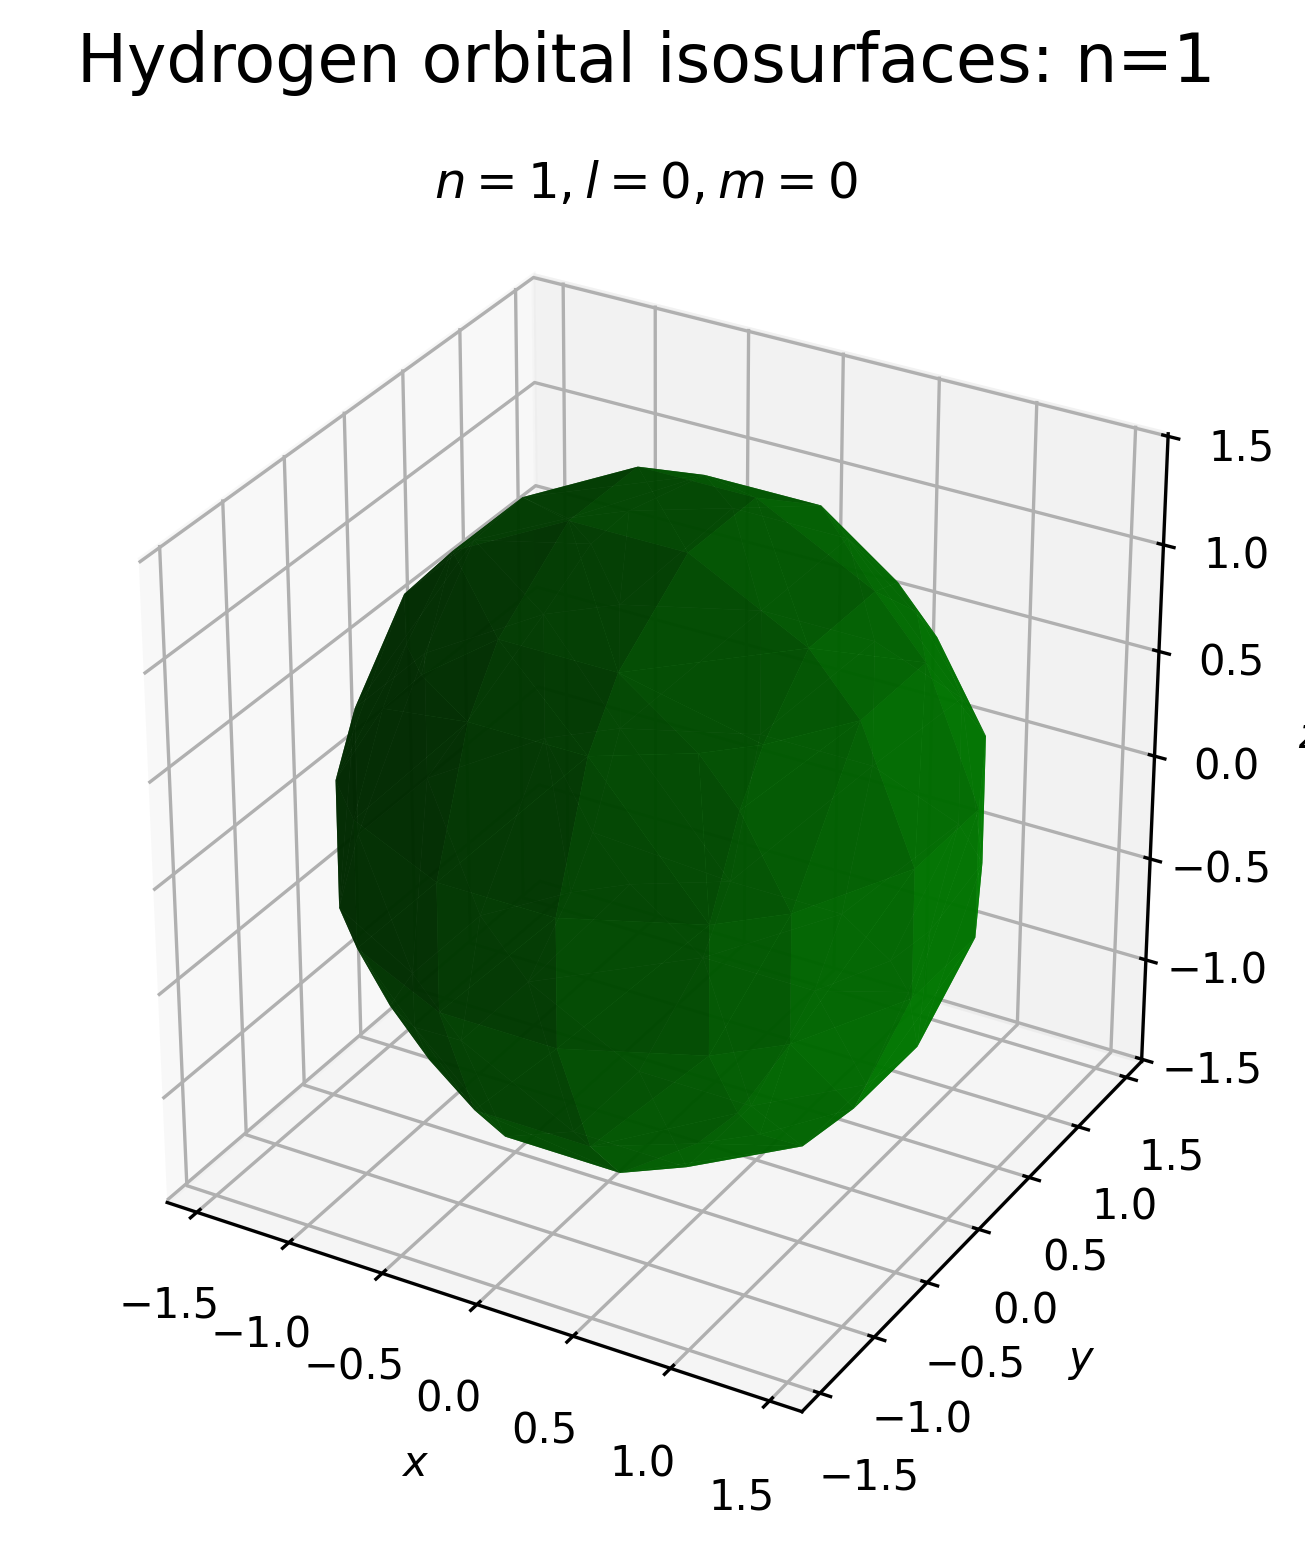
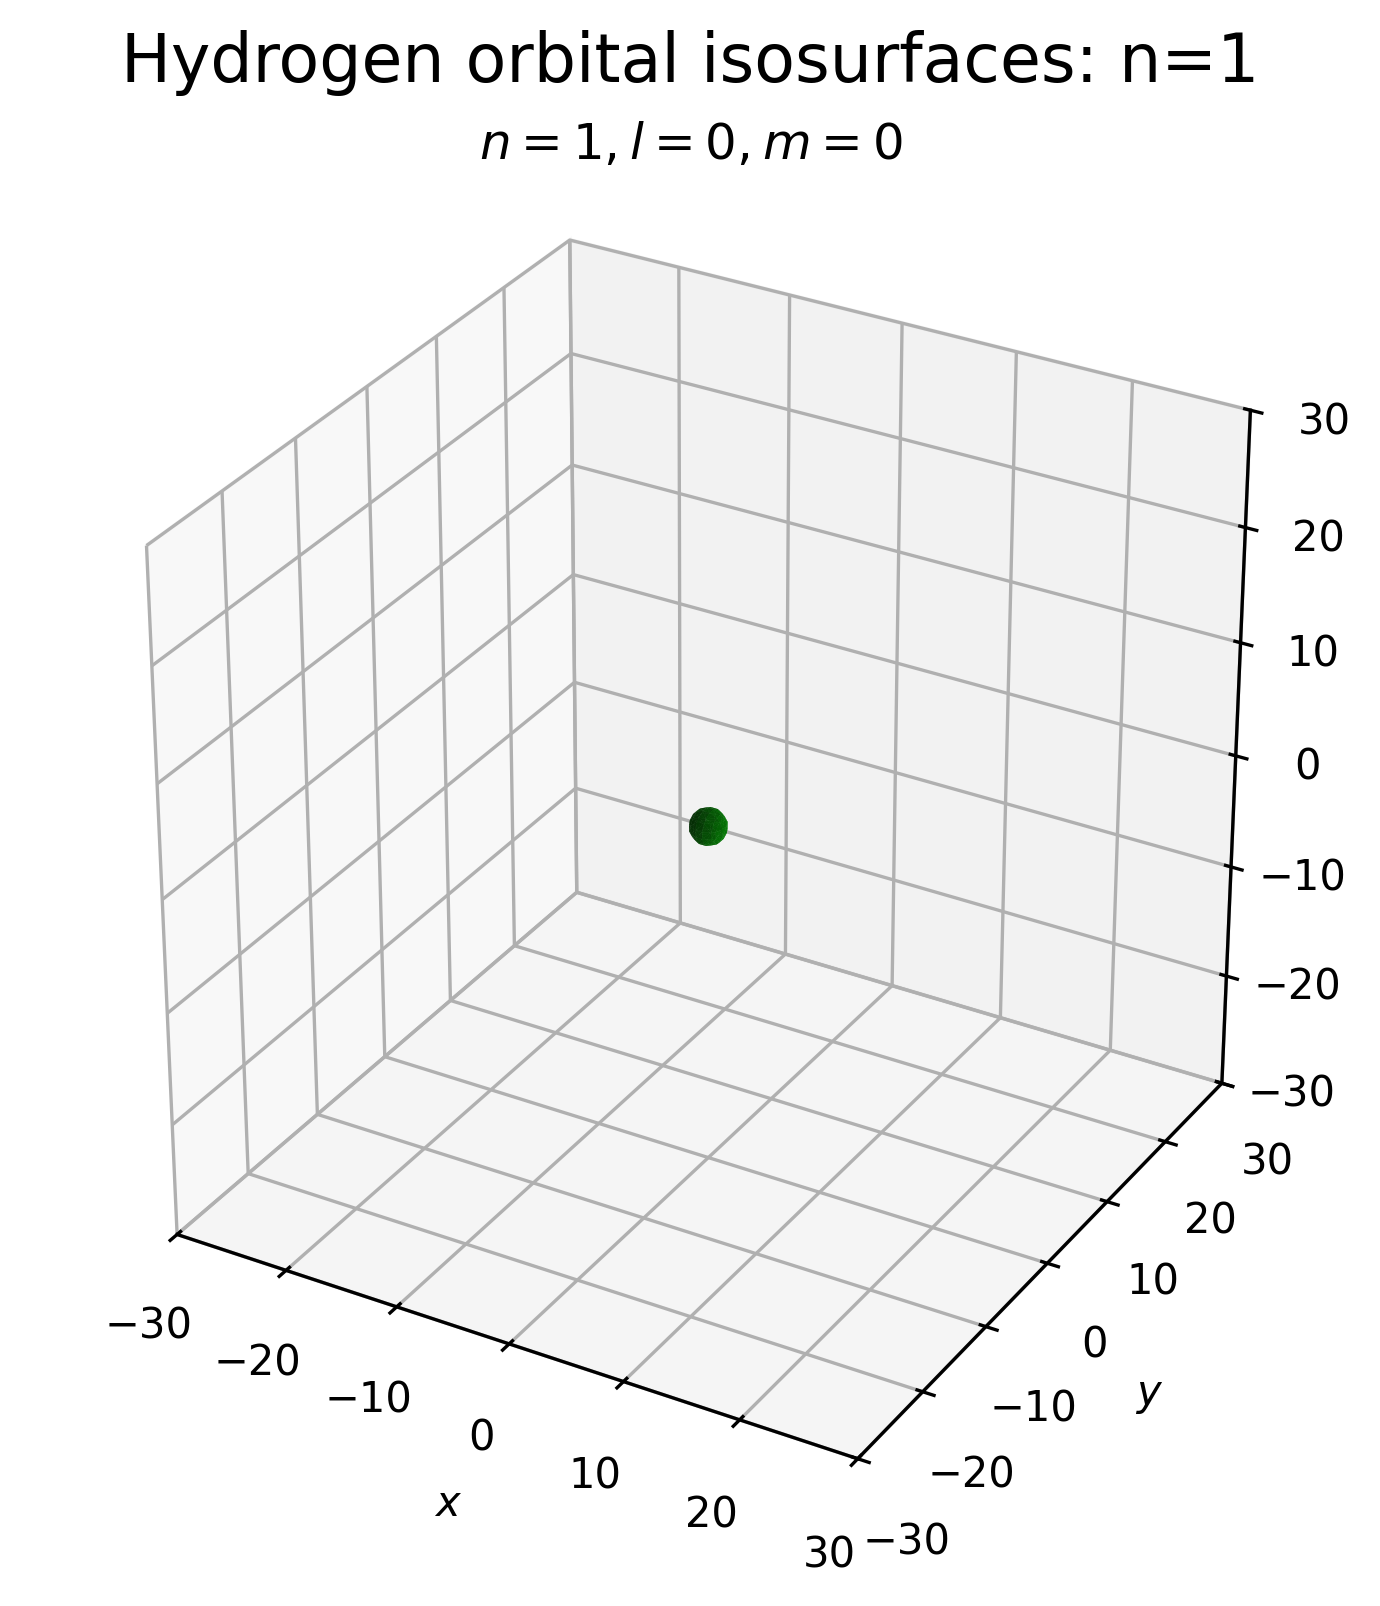
fixed orbitals

diff --git a/visualization/plot_3d.py b/visualization/plot_3d.py
@@ -78,6 +78,10 @@ def plot_isosurface_3d(x, y, z, densities, n, threshold=0.15, filename="isosurfa
         ax.set_ylabel("$y$")
         ax.set_zlabel("$z$")
 
+        ax.set_xlim(-30, 30)
+        ax.set_ylim(-30, 30)
+        ax.set_zlim(-30, 30)
+
         ax.set_box_aspect((1, 1, 1))
 
     fig.suptitle(
@@ -85,7 +89,7 @@ def plot_isosurface_3d(x, y, z, densities, n, threshold=0.15, filename="isosurfa
         fontsize=16
     )
 
-    plt.tight_layout()
+    # plt.tight_layout()
 
     save_plot(filename)
     plt.close(fig)

diff --git a/main.py b/main.py
@@ -143,7 +143,6 @@ def main():
 
 
     # 3D density grid
-
     x = np.linspace(-30, 30, 100)
     y = np.linspace(-30, 30, 100)
     z = np.linspace(-30, 30, 100)
